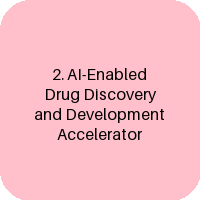
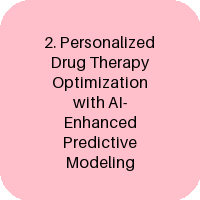
Update C++ learning topics in README

Changed region(s): [[0.15, 0.27, 0.84, 0.75], [0.21, 0.18, 0.78, 0.24], [0.33, 0.78, 0.69, 0.87]]

diff --git a/README.md b/README.md
@@ -15,8 +15,8 @@
 
 ### Project Ideas (AI generated; updates automatically everyday)
 <!--C++_TOPICS-->
-- 1. AI-Powered Personalized Treatment Planning for Cancer Patients
-- 2. AI-Enabled Drug Discovery and Development Accelerator
+- 1. AI-Powered Diagnostic Tool for Early Detection of Cancer
+- 2. Personalized Drug Therapy Optimization with AI-Enhanced Predictive Modeling
 <!--END_C++_TOPICS-->
 
 
